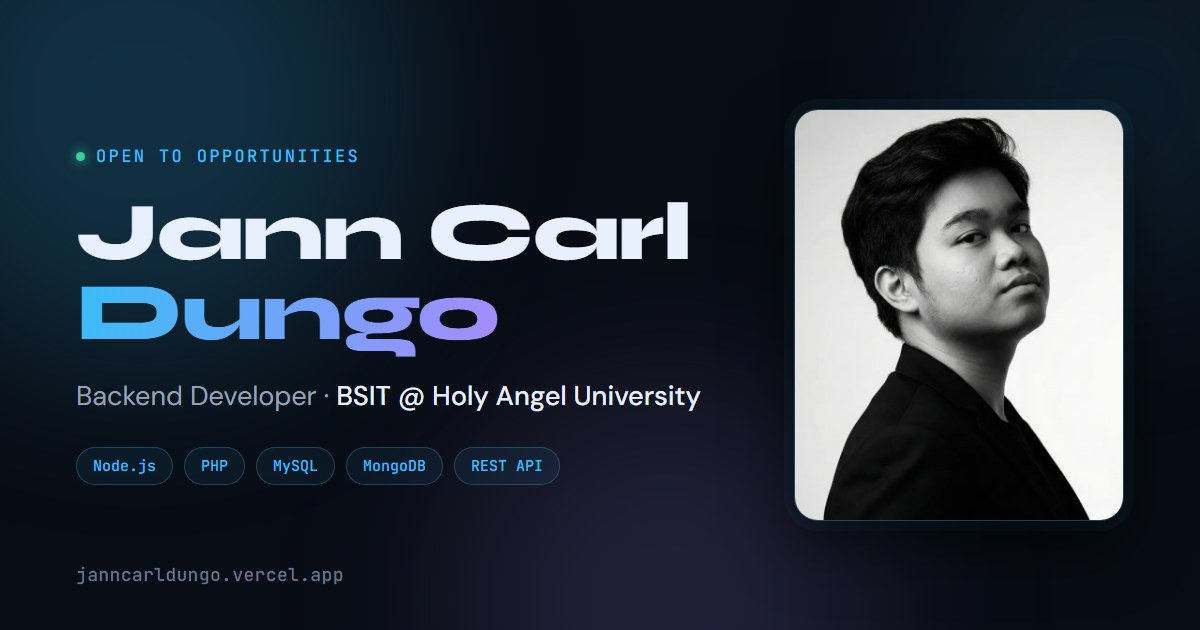
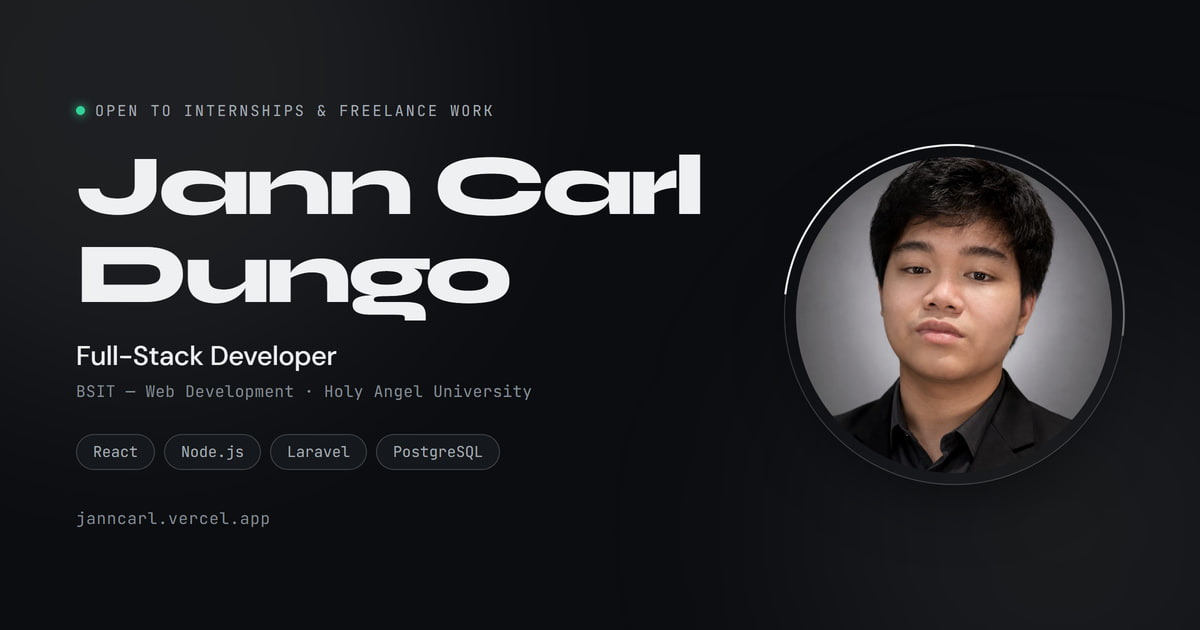
Mobile theme toggle in the header; regenerate the OG card
Theme toggle
- Show the toggle in the mobile header beside the hamburger, and drop the
  duplicate that lived inside the menu. Buried in the menu it cost two taps
  and a full-screen overlay to change one setting, and you couldn't see the
  result until you closed the menu again. It now sits above the open menu,
  so the menu itself repaints as you switch.
- Tighten .nav-actions to a 4px gap and a 42px control below 430px, so the
  toggle and hamburger both stay inside a 320px viewport with a 42px+ touch
  target (measured: hamburger right edge at 310 of 320).
- aria-label now announces the destination ("Switch to light mode") rather
  than describing the control ("Toggle light/dark mode").

OG card
Regenerated public/images/og-image.jpg from the site's own tokens. The old
one was three releases stale and carried two factual errors:
- it said "Backend Developer"; the h1, og:title and JSON-LD all say
  Full-Stack Developer
- it printed janncarldungo.vercel.app, which returns 503 — the live domain
  is janncarl.vercel.app
- it used the pre-monochrome cyan/violet gradient (#38bdf8 / #a78bfa)

The site is on a free vercel.app subdomain and will be shared by pasting the
link rather than found by search, so the unfurl card is the first thing most
people see. Now: Syne/JetBrains Mono, monochrome, the hero's portrait ring,
correct role, live domain, current stack. 1200x630, 56 KB.

Note: LinkedIn, Facebook and Messenger cache OG images for weeks; existing
[…]

diff --git a/app/styles/layout/responsive.css b/app/styles/layout/responsive.css
@@ -8,13 +8,14 @@
 
 /* ── Mobile (≤ 768px) ─────────────────────────────────── */
 @media (max-width: 768px) {
-  /* Desktop nav + its inline actions collapse into the hamburger menu,
-     which carries the links, the theme toggle and the primary CTA button. */
-  .nav-links          { display: none; }
-  .nav-actions .btn   { display: none; }
-  .nav-actions-toggle { display: none; }
-  .hamburger          { display: flex; }
-  .mobile-menu        { display: flex; }
+  /* Desktop nav links and the inline CTA collapse into the hamburger menu.
+     The theme toggle stays in the header beside the hamburger: buried in the
+     menu it cost two taps and a full-screen overlay to change one setting,
+     and you couldn't see the result until you closed the menu again. */
+  .nav-links        { display: none; }
+  .nav-actions .btn { display: none; }
+  .hamburger        { display: flex; }
+  .mobile-menu      { display: flex; }
 }
 
 /* ── Small mobile (≤ 430px) ───────────────────────────── */

diff --git a/components/Nav.tsx b/components/Nav.tsx
@@ -131,10 +131,9 @@ export function Nav() {
             {s.label}
           </a>
         ))}
+        {/* No theme toggle here — it lives in the header on mobile, where it
+            stays reachable and shows its effect immediately. */}
         <div className="mobile-menu-actions">
-          <button className="theme-toggle" aria-label="Toggle light/dark mode" onClick={toggleTheme}>
-            {theme === 'dark' ? SunIcon : MoonIcon}
-          </button>
           <a href="#contact" className="btn btn-primary" onClick={closeMenu}>Start a project</a>
         </div>
       </nav>
@@ -164,7 +163,7 @@ export function Nav() {
             </nav>
 
             <div className="nav-actions">
-              <button className="theme-toggle nav-actions-toggle" aria-label="Toggle light/dark mode" onClick={toggleTheme}>
+              <button className="theme-toggle" aria-label={`Switch to ${theme === 'dark' ? 'light' : 'dark'} mode`} onClick={toggleTheme}>
                 {theme === 'dark' ? SunIcon : MoonIcon}
               </button>
               <a href="#contact" className="btn btn-primary btn-sm">Start a project</a>

diff --git a/app/styles/layout/navbar.css b/app/styles/layout/navbar.css
@@ -103,6 +103,14 @@
 }
 .theme-toggle:hover { border-color: var(--accent); transform: rotate(20deg); }
 
+/* Toggle + hamburger sit together in the mobile header; tighten the gap and
+   trim the control so both stay comfortably inside a 320px viewport while
+   keeping a 44px touch target. */
+@media (max-width: 430px) {
+  .nav-actions  { gap: 4px; }
+  .theme-toggle { width: 42px; height: 42px; }
+}
+
 /* ── Hamburger ── */
 .hamburger {
   display        : none;
